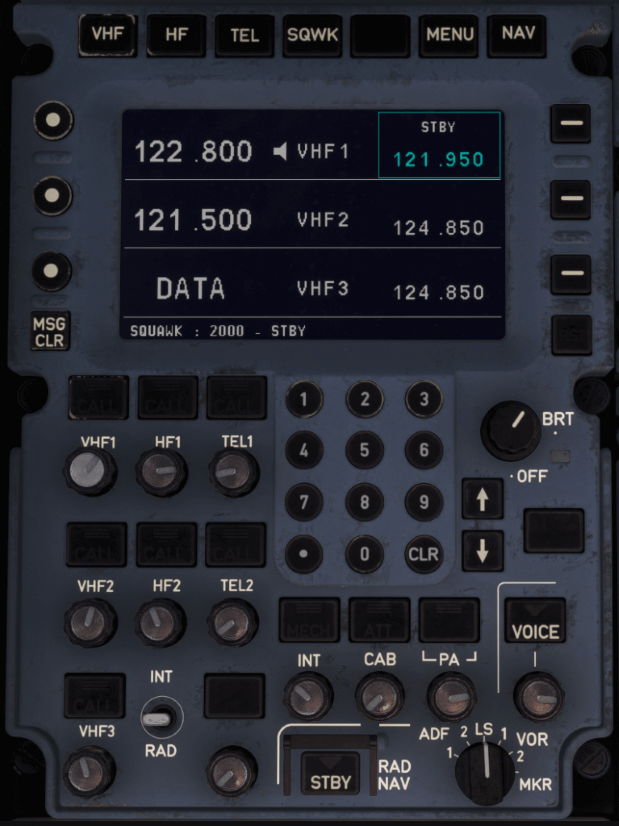
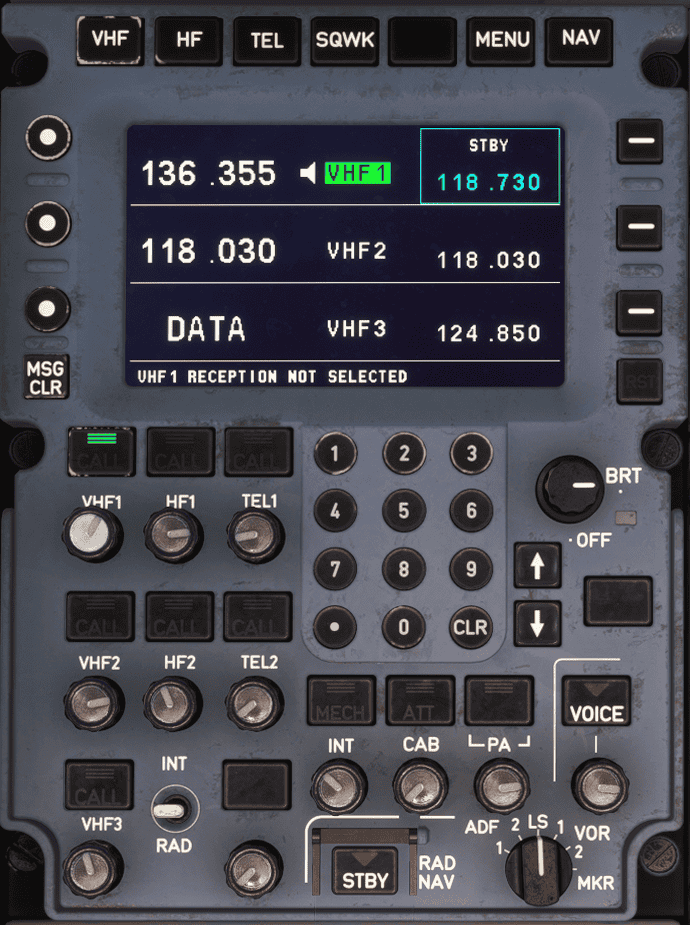
Content for briefing pages

diff --git a/docs/pilots-corner/a380x/a380x-briefing/flight-deck/pedestal/rmp.md b/docs/pilots-corner/a380x/a380x-briefing/flight-deck/pedestal/rmp.md
@@ -11,12 +11,165 @@ description: The A380 Flight Deck Radio Management (RMP) Panel description.
 
 ---
 
-![img_2.png](../../../assets/a380x-briefing/flight-deck/pedestal/rmp.png)
+![img.png](../../../assets/a380x-briefing/flight-deck/pedestal/rmp.png){loading=lazy width=70%}
 
+## Description
 
-[//]: # (TODO)
-<p style="color:yellow; font-size:18px;">TODO: </p>
+The Radio Management Panels (RMP) are powerful systems managing the aircraft's communication and std-by navigation 
+systems.
 
+We are planning a separate more in-depth guide for the RMPs, but here is a brief overview:
+
+There are three Radio Management Panels (RMPs) in the cockpit. The flight crew uses these RMPs to control the
+communication system.
+
+On each RMP, the flight crew can:
+
+- Select the communication mean(s) in transmission and/or reception mode(s)
+- Tune HF and VHF frequencies
+- Dial SATCOM Telephone (TEL) numbers
+- Select voice or data mode
+- Monitor and change data mode parameters
+- Enter the Squawk (SQWK) code
+- Select Standby Radio Navigation (STBY RAD NAV) and tune the NAVAIDs (only via RMP 1 and RMP 2).
+- Adjust the volume for voice communication and for NAVAID identification.
+
+The RMPs share selections and inputs to enable the flight crew to control all radio communication via any RMP.
+
+The RMPs share mainly the following data:
+
+- Active and standby frequencies
+- SATCOM channels and their status (e.g. logged on/off, connected)
+- Active function displays (e.g. Amplitude Modulation (AM))
+  However, it is possible to display a different page on each RMP.
+
+In normal operation:
+
+- The Captain controls communication via RMP 1
+- The First Officer controls communication via RMP 2
+- The third and the fourth occupants control communication via RMP 3.
+- RMPs 1 and 2 are directly connected to the VHF and HF transceivers.
+- RMP 1 transmits all commands to VHF 1, VHF 3 and HF 1.
+- RMP 2 transmits all commands to VHF 2 and HF 2.
+- RMP 3 transmits commands to RMP 1 or RMP 2, via the appropriate control connection.
+- RMP 1 and/or RMP 2 then send these commands to the appropriate transceivers.
+- All three RMPs are directly connected to the SATCOM system.
+
+## Usage
+
+!!! warning "RMP in the A380X"
+    The RMPs are not yet fully implemented in the A380X.
+
+    They can be used for the pilot <-> ATC communication with VHF and squawk code entry. 
+    Currently no other features are available.
+
+    The RMPs are planned to be fully implemented in the future.
+
+    Below we will only describe the features that are currently available in the A380X.
+
+!!! warning "VATSIM vPilot"
+    Unfortunately, the VATSIM vPilot plugin does not support a correct usage of the RMPs yet.
+
+    Current known limitations when using vPilot:
+
+    - vPilot doest not support 3 RMPs, only 2.
+    - vPilot does not support the volume contol of the RMP's reception knobs.
+    - VHF1/COM1 works well, but VHF2/COM2 only works if you turn VHF3/COM3 receive on.
+
+### BRT/OFF KNOB
+
+!!! block ""
+    ![img.png](../../../assets/a380x-briefing/flight-deck/pedestal/rmp-brt-knob.png){loading=lazy align=right}
+
+    The flight crew uses the BRT/OFF knob to turn the RMP on or off, and to adjust the brightness of the
+    RMP screen.
+
+    The status indicator changes color to indicate the status of the RMP:
+
+    - Green: The RMP is off and in standby mode.
+    - Red:
+        - if the knob is pointing to OFF then the RMP is off and failed.
+        - if the knob is not pointing to OFF then the RMP is on and failed.
+    - no light: The RMP is on.
+
+### LINE SELECTION KEYS (LSK 1-3)
+
+!!! block ""
+    ![img_1.png](../../../assets/a380x-briefing/flight-deck/pedestal/rmp-lsk.png){loading=lazy align=right}
+
+    When pressed, select, validate, or activate the corresponding displays (e.g.
+    frequencies, functions, page titles).
+
+### ACTIVATION/DIALING KEYS (ADK 1-3)
+
+!!! block ""
+    ![img_2.png](../../../assets/a380x-briefing/flight-deck/pedestal/rmp-adk.png){loading=lazy align=right}
+
+    When pressed, dial, select, validate, activate the corresponding displays (e.g.
+    frequencies, functions).
+
+### NUMERIC KEYS
+
+!!! block ""
+    ![img_3.png](../../../assets/a380x-briefing/flight-deck/pedestal/rmp-numeric.png){loading=lazy align=right}
+
+    When pressed, enter numeric values (e.g. frequencies, squawk codes).
+    
+    CLR KEY:
+
+    - When pressed, clears the last digit entered.
+    - When pressed and held, clears all digits entered.
+
+### VHF TRANSMISSION KEYS (VHF 1(2)(3))
+
+!!! block ""
+    ![img_4.png](../../../assets/a380x-briefing/flight-deck/pedestal/rmp-tx.png){loading=lazy align=right}
+
+    - Not illuminated:
+        - The associated communication mean (i.e. VHF 1(2)(3)) is not in transmission mode.
+        - When pressed, the transmission key turns on the transmission mode.
+        - Note: Only one communication mean at a time (internal and external communication) can be in transmission mode 
+          on each RMP.
+    - Illuminated green:
+        - The associated communication mean (i.e. VHF 1(2)(3)) is in transmission mode. 
+        - When pressed, the transmission key turns off the transmission mode.
+    
+### VHF RECEPTION KNOBS (VHF 1(2)(3))
+
+!!! block ""
+    ![img_5.png](../../../assets/a380x-briefing/flight-deck/pedestal/rmp-rx.png){loading=lazy align=right}
+    
+    - Dark and in:
+        - The associated communication mean (i.e. VHF 1(2)(3)) is in reception mode.
+        - When pressed and released in the out position, the reception knob turns off the reception mode.
+    - Illuminated and out:
+        - The associated communication mean (i.e. VHF 1(2)(3)) is in reception mode.
+        - When pressed and released in the in position, the reception knob turns off the reception mode.
+        - When turned, the reception knob adjusts the volume of the headset.
+
+### RMP Page Access Keys
+
+!!! block ""
+    ![img_7.png](../../../assets/a380x-briefing/flight-deck/pedestal/rmp-page-access.png){loading=lazy align=right}
+
+    - The RMPs have multiple pages that can be selected by pressing the LSK 1-3 keys.
+
+### VHF Page
+
+![img_6.png](../../../assets/a380x-briefing/flight-deck/pedestal/rmp-vhf-page.png){loading=lazy}
+
+1. Active frequency
+2. Loadspeaker symbol (indicating if reception is on or not)
+3. Transceiver Indicator (indicating if transmission is on or not)
+4. Standby frequency
+5. Clear the RMP message line
+6. RMP message line
+
+### Squawk Page
+
+The Squawk page is used to quickly enter a squawk code.
+
+The transponder system (XPDR) is otherwise managed in the [MFD](../main-panel/mfd.md) and not on the RMP. 
 
 ---
 

diff --git a/docs/pilots-corner/a380x/a380x-briefing/flight-deck/ovhd/resets.md b/docs/pilots-corner/a380x/a380x-briefing/flight-deck/ovhd/resets.md
@@ -11,12 +11,48 @@ description: The A380 Flight Deck Reset Panels description.
 
 ---
 
-!!! block ""
+=== block ""
     ![Reset Panels](../../../assets/a380x-briefing/flight-deck/ovhd/reset-left-panel.png "Reset Panels"){loading=lazy width=45% align=left}
     ![Reset Panels](../../../assets/a380x-briefing/flight-deck/ovhd/reset-right-panel.png "Reset Panels"){loading=lazy width=45% align=right}
 
-[//]: # (TODO)
-<p style="color:yellow; font-size:18px;">TODO: </p>
+# Description
+
+!!! warning "Reset Panels"
+    The Reset Panels are currently not functional in the A380X.
+
+Some systems that operate abnormally, or that are detected failed by the ECAM, can be recovered by
+a computer reset.
+The flight crew can perform a computer reset by using the cockpit controls (e.g. pushbuttons), or the
+reset buttons.
+
+!!! warning ""
+    The flight crew can attempt a computer reset only when:
+
+    - An ECAM/OEB/TDU procedure requests to reset the system, or
+    - The List of Computer Reset Procedures permits to reset the system (Refer to List of
+            Computer Reset Procedures), or
+    - When approved by MCC in the case of specific TR failures in flight, which are
+            confirmed by the Airbus Real Time Health Monitoring system.
+
+The reset procedures give the conditions to perform a reset and also describes the precautions to take and the effects 
+of the reset.
+
+Unless indicated differently in the reset procedure, to perform a system reset:
+
+- Set the normal control to OFF, or pull the reset button
+- Wait three seconds if a normal cockpit control is used, or one second if a reset button was pulled
+- Set the normal control to ON, or push the reset button.
+ 
+!!! warning ""
+    Several resets must not be performed at the same time, unless indicated in the applicable reset procedure.
+
+Note: 
+
+1. In flight, before taking any action on the reset buttons, the PF and PM must crosscheck and verify that the 
+reset button corresponds to the affected system
+2. The flight crew should report any in-flight reset to the maintenance.
+
+
 
 ---
 

diff --git a/docs/pilots-corner/a380x/a380x-briefing/flight-deck/ovhd/rmp.md b/docs/pilots-corner/a380x/a380x-briefing/flight-deck/ovhd/rmp.md
@@ -13,9 +13,11 @@ description: The A380 Flight Deck Radio Management Panel (RMP) description.
 
 ![Radio Management Panel](../../../assets/a380x-briefing/flight-deck/ovhd/rmp3-panel.png "Radio Management Panel"){loading=lazy}
 
-[//]: # (TODO)
-<p style="color:yellow; font-size:18px;">TODO: </p>
+## Description
+The Radio Management Panels (RMP) are powerful systems managing the aircraft's communication and std-by navigation 
+systems.
 
+Please refer to the [pedestal RMP](../pedestal/rmp.md) for more information.
 
 ---
 

diff --git a/docs/pilots-corner/a380x/a380x-briefing/flight-deck/ovhd/reading.md b/docs/pilots-corner/a380x/a380x-briefing/flight-deck/ovhd/reading.md
@@ -14,8 +14,9 @@ description: The A380 Flight Deck Reading Lights Panels description.
 
 [//]: # (TODO API Doc Link)
 
-[//]: # (TODO)
-<p style="color:yellow; font-size:18px;">TODO: </p>
+## Description
+
+Each flight crew member has a reading light.
 
 ---
 
